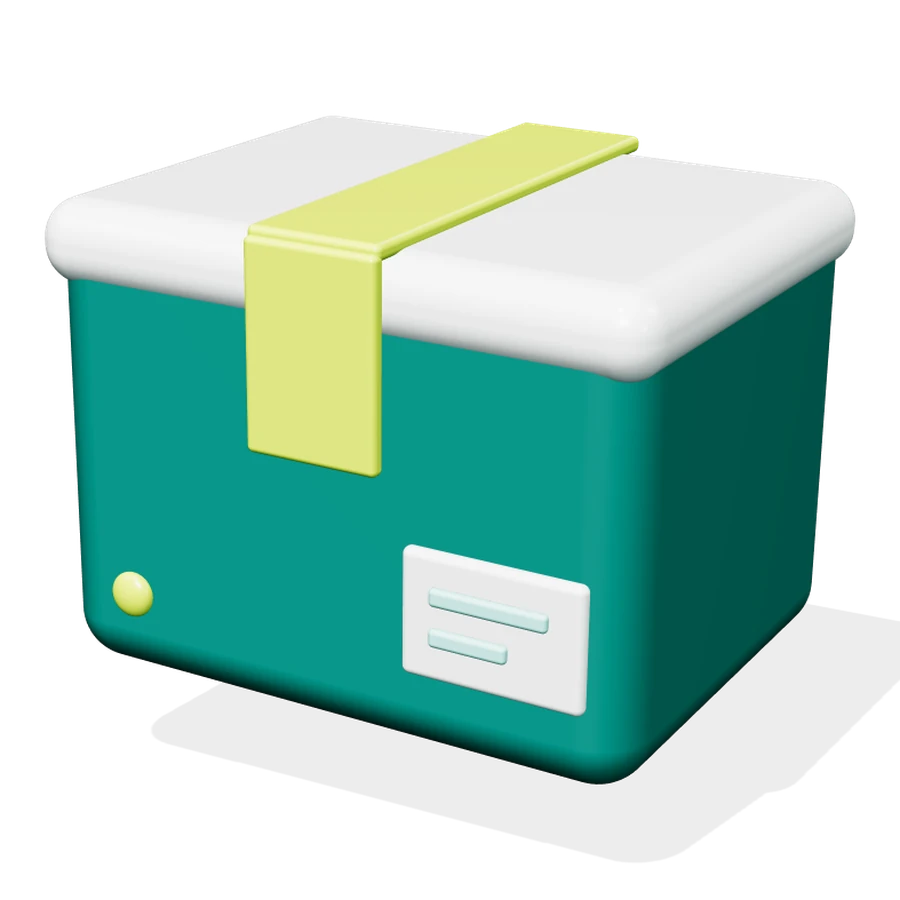
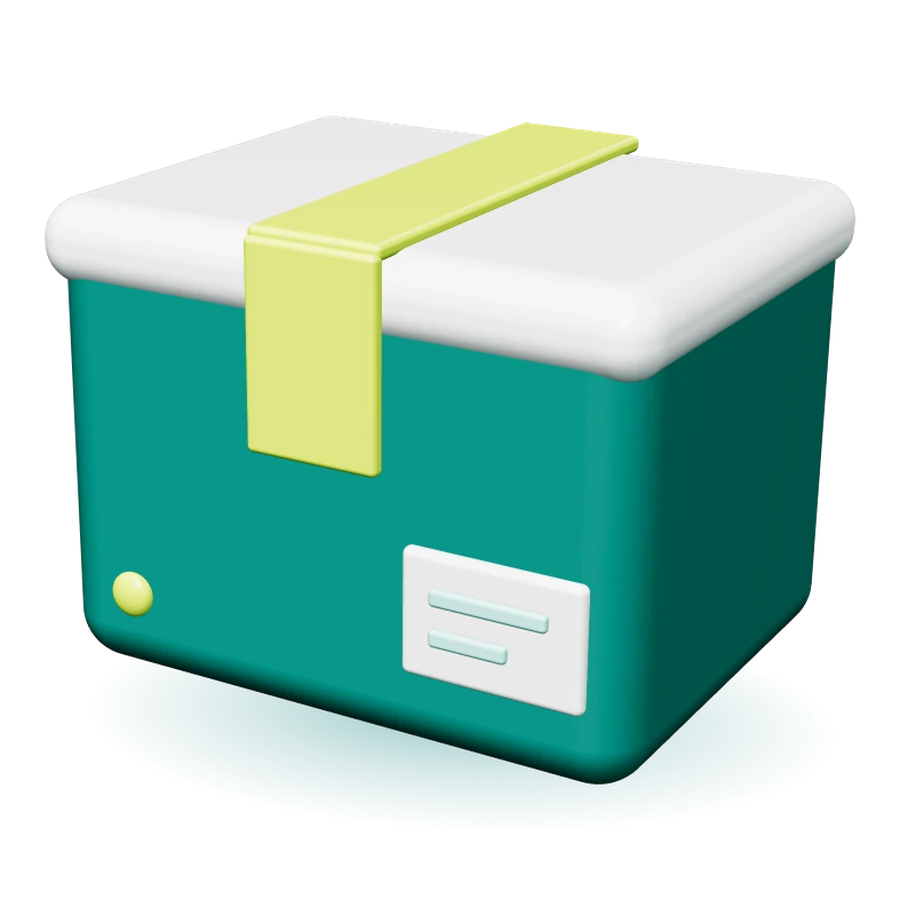
Version 12.4 (gebaut)
Claude-Session: https://claude.ai/code/session_018Wc4TpbFcR54odGWMa1RDx

Changed region(s): [[0.28, 0.7778, 0.5911, 0.8711], [0.2178, 0.7467, 0.2489, 0.7778]]

diff --git a/en/start.html b/en/start.html
@@ -25,7 +25,7 @@
 <link rel="icon" href="/favicon.ico" sizes="48x48">
 <link rel="manifest" href="/site.webmanifest">
 <link rel="preload" href="/fonts/instrument-sans-latin-wght-normal.woff2" as="font" type="font/woff2" crossorigin>
-<link rel="stylesheet" href="/css/site.css?v=4493fca2">
+<link rel="stylesheet" href="/css/site.css?v=ce3bd9f6">
 <script>document.documentElement.classList.add('js');setTimeout(function(){if(!window.__ldReady)document.documentElement.classList.remove('js')},2500);</script>
 <script type="application/ld+json">{"@context": "https://schema.org", "@type": "ProfessionalService", "name": "Lou Digital", "url": "https://lou-digital.de/en/", "email": "info@lou-digital.de", "founder": {"@type": "Person", "name": "Adrian Semlinger"}, "address": {"@type": "PostalAddress", "addressLocality": "Karlsruhe", "addressRegion": "Baden-Württemberg", "addressCountry": "DE"}, "areaServed": "DE", "telephone": "+49 156 30163539"}</script>
 </head>
@@ -52,13 +52,13 @@
       </div>
       <div class="blocks" aria-hidden="true">
         <div class="blk blk--petrol"><img class="fig" src="/img/fig-web.webp?v=7ac4f9f6" width="900" height="900" alt="" style="--f:94%" decoding="async"></div>
-        <div class="blk blk--ink"><img class="fig" src="/img/fig-mail.webp?v=47e3529c" width="900" height="900" alt="" style="--f:96%" decoding="async"></div>
-        <div class="blk blk--lime"><img class="fig" src="/img/fig-box.webp?v=d7bd06c3" width="900" height="900" alt="" style="--f:86%" decoding="async"></div>
+        <div class="blk blk--ink"><img class="fig" src="/img/fig-mail.webp?v=8fc74828" width="900" height="900" alt="" style="--f:96%" decoding="async"></div>
+        <div class="blk blk--lime"><img class="fig" src="/img/fig-box.webp?v=3f6ec955" width="900" height="900" alt="" style="--f:86%" decoding="async"></div>
         <div class="blk blk--mint dots"><img class="fig" src="/img/fig-clip.webp?v=ed7c0325" width="900" height="900" alt="" style="--f:98%" decoding="async"></div>
       </div>
     </div>
   </section>
-  <section class="sec sec--tight"><div class="wrap"><div class="teasers"><a class="teaser teaser--petrol" href="/en/websites" data-reveal style="--d:0.00s"><span><h3>Website in 7 days</h3><p>One-pager or up to 5 pages, from €390.</p><span class="go">View</span></span><img src="/img/fig-web.webp?v=7ac4f9f6" width="900" height="900" alt="" loading="lazy" decoding="async"></a><a class="teaser teaser--ink" href="/en/automation" data-reveal style="--d:0.06s"><span><h3>Inquiry automation</h3><p>Every inquiry instantly on your phone.</p><span class="go">View</span></span><img src="/img/fig-mail.webp?v=47e3529c" width="900" height="900" alt="" loading="lazy" decoding="async"></a><a class="teaser teaser--mint" href="/en/website-check" data-reveal style="--d:0.12s"><span><h3>Website check</h3><p>Five checkpoints, free of charge.</p><span class="go">View</span></span><img src="/img/fig-clip.webp?v=ed7c0325" width="900" height="900" alt="" loading="lazy" decoding="async"></a><a class="teaser teaser--lime" href="/en/custom" data-reveal style="--d:0.18s"><span><h3>Custom package</h3><p>Pick building blocks, see the price instantly.</p><span class="go">View</span></span><img src="/img/fig-box.webp?v=d7bd06c3" width="900" height="900" alt="" loading="lazy" decoding="async"></a></div></div></section>
+  <section class="sec sec--tight"><div class="wrap"><div class="teasers"><a class="teaser teaser--petrol" href="/en/websites" data-reveal style="--d:0.00s"><span><h3>Website in 7 days</h3><p>One-pager or up to 5 pages, from €390.</p><span class="go">View</span></span><img src="/img/fig-web.webp?v=7ac4f9f6" width="900" height="900" alt="" loading="lazy" decoding="async"></a><a class="teaser teaser--ink" href="/en/automation" data-reveal style="--d:0.06s"><span><h3>Inquiry automation</h3><p>Every inquiry instantly on your phone.</p><span class="go">View</span></span><img src="/img/fig-mail.webp?v=8fc74828" width="900" height="900" alt="" loading="lazy" decoding="async"></a><a class="teaser teaser--mint" href="/en/website-check" data-reveal style="--d:0.12s"><span><h3>Website check</h3><p>Five checkpoints, free of charge.</p><span class="go">View</span></span><img src="/img/fig-clip.webp?v=ed7c0325" width="900" height="900" alt="" loading="lazy" decoding="async"></a><a class="teaser teaser--lime" href="/en/custom" data-reveal style="--d:0.18s"><span><h3>Custom package</h3><p>Pick building blocks, see the price instantly.</p><span class="go">View</span></span><img src="/img/fig-box.webp?v=3f6ec955" width="900" height="900" alt="" loading="lazy" decoding="async"></a></div></div></section>
   <section class="sec" id="websites">
     <div class="wrap split">
       <div class="copy">
@@ -72,7 +72,7 @@
   </section>
   <section class="sec band" id="automatik">
     <div class="wrap split split--rev">
-      <div class="stage stage--petrol" data-reveal="scale"><img class="fig" src="/img/fig-mail.webp?v=47e3529c" width="900" height="900" alt="" style="--f:66%" decoding="async"></div>
+      <div class="stage stage--petrol" data-reveal="scale"><img class="fig" src="/img/fig-mail.webp?v=8fc74828" width="900" height="900" alt="" style="--f:66%" decoding="async"></div>
       <div class="copy">
         <h2 class="h2" data-reveal>Inquiry automation</h2>
         <p class="muted" data-reveal style="--d:.05s">Every inquiry from your form reaches you instantly. No digging through your inbox, no inquiry gets lost.</p>
@@ -133,7 +133,7 @@
     </div>
     <div class="trio" aria-hidden="true" data-reveal="scale">
       <div class="blk blk--petrol"><img class="fig" src="/img/fig-web.webp?v=7ac4f9f6" width="900" height="900" alt="" style="--f:84%" decoding="async"></div>
-      <div class="blk blk--ink"><img class="fig" src="/img/fig-mail.webp?v=47e3529c" width="900" height="900" alt="" style="--f:86%" decoding="async"></div>
+      <div class="blk blk--ink"><img class="fig" src="/img/fig-mail.webp?v=8fc74828" width="900" height="900" alt="" style="--f:86%" decoding="async"></div>
       <div class="blk blk--mint dots"><img class="fig" src="/img/fig-clip.webp?v=ed7c0325" width="900" height="900" alt="" style="--f:84%" decoding="async"></div>
     </div>
   </div>

diff --git a/start.html b/start.html
@@ -25,7 +25,7 @@
 <link rel="icon" href="/favicon.ico" sizes="48x48">
 <link rel="manifest" href="/site.webmanifest">
 <link rel="preload" href="/fonts/instrument-sans-latin-wght-normal.woff2" as="font" type="font/woff2" crossorigin>
-<link rel="stylesheet" href="/css/site.css?v=4493fca2">
+<link rel="stylesheet" href="/css/site.css?v=ce3bd9f6">
 <script>document.documentElement.classList.add('js');setTimeout(function(){if(!window.__ldReady)document.documentElement.classList.remove('js')},2500);</script>
 <script type="application/ld+json">{"@context": "https://schema.org", "@type": "ProfessionalService", "name": "Lou Digital", "url": "https://lou-digital.de/", "email": "info@lou-digital.de", "founder": {"@type": "Person", "name": "Adrian Semlinger"}, "address": {"@type": "PostalAddress", "addressLocality": "Karlsruhe", "addressRegion": "Baden-Württemberg", "addressCountry": "DE"}, "areaServed": "DE", "telephone": "+49 156 30163539"}</script>
 </head>
@@ -52,13 +52,13 @@
       </div>
       <div class="blocks" aria-hidden="true">
         <div class="blk blk--petrol"><img class="fig" src="/img/fig-web.webp?v=7ac4f9f6" width="900" height="900" alt="" style="--f:94%" decoding="async"></div>
-        <div class="blk blk--ink"><img class="fig" src="/img/fig-mail.webp?v=47e3529c" width="900" height="900" alt="" style="--f:96%" decoding="async"></div>
-        <div class="blk blk--lime"><img class="fig" src="/img/fig-box.webp?v=d7bd06c3" width="900" height="900" alt="" style="--f:86%" decoding="async"></div>
+        <div class="blk blk--ink"><img class="fig" src="/img/fig-mail.webp?v=8fc74828" width="900" height="900" alt="" style="--f:96%" decoding="async"></div>
+        <div class="blk blk--lime"><img class="fig" src="/img/fig-box.webp?v=3f6ec955" width="900" height="900" alt="" style="--f:86%" decoding="async"></div>
         <div class="blk blk--mint dots"><img class="fig" src="/img/fig-clip.webp?v=ed7c0325" width="900" height="900" alt="" style="--f:98%" decoding="async"></div>
       </div>
     </div>
   </section>
-  <section class="sec sec--tight"><div class="wrap"><div class="teasers"><a class="teaser teaser--petrol" href="/websites" data-reveal style="--d:0.00s"><span><h3>Website in 7 Tagen</h3><p>Onepager oder bis zu 5 Seiten, ab 390 €.</p><span class="go">Ansehen</span></span><img src="/img/fig-web.webp?v=7ac4f9f6" width="900" height="900" alt="" loading="lazy" decoding="async"></a><a class="teaser teaser--ink" href="/automatik" data-reveal style="--d:0.06s"><span><h3>Anfrage-Automatik</h3><p>Jede Anfrage sofort auf Ihrem Handy.</p><span class="go">Ansehen</span></span><img src="/img/fig-mail.webp?v=47e3529c" width="900" height="900" alt="" loading="lazy" decoding="async"></a><a class="teaser teaser--mint" href="/website-check" data-reveal style="--d:0.12s"><span><h3>Website-Check</h3><p>Fünf Prüfpunkte, kostenlos.</p><span class="go">Ansehen</span></span><img src="/img/fig-clip.webp?v=ed7c0325" width="900" height="900" alt="" loading="lazy" decoding="async"></a><a class="teaser teaser--lime" href="/individuell" data-reveal style="--d:0.18s"><span><h3>Individuelles Paket</h3><p>Bausteine wählen, Preis sofort sehen.</p><span class="go">Ansehen</span></span><img src="/img/fig-box.webp?v=d7bd06c3" width="900" height="900" alt="" loading="lazy" decoding="async"></a></div></div></section>
+  <section class="sec sec--tight"><div class="wrap"><div class="teasers"><a class="teaser teaser--petrol" href="/websites" data-reveal style="--d:0.00s"><span><h3>Website in 7 Tagen</h3><p>Onepager oder bis zu 5 Seiten, ab 390 €.</p><span class="go">Ansehen</span></span><img src="/img/fig-web.webp?v=7ac4f9f6" width="900" height="900" alt="" loading="lazy" decoding="async"></a><a class="teaser teaser--ink" href="/automatik" data-reveal style="--d:0.06s"><span><h3>Anfrage-Automatik</h3><p>Jede Anfrage sofort auf Ihrem Handy.</p><span class="go">Ansehen</span></span><img src="/img/fig-mail.webp?v=8fc74828" width="900" height="900" alt="" loading="lazy" decoding="async"></a><a class="teaser teaser--mint" href="/website-check" data-reveal style="--d:0.12s"><span><h3>Website-Check</h3><p>Fünf Prüfpunkte, kostenlos.</p><span class="go">Ansehen</span></span><img src="/img/fig-clip.webp?v=ed7c0325" width="900" height="900" alt="" loading="lazy" decoding="async"></a><a class="teaser teaser--lime" href="/individuell" data-reveal style="--d:0.18s"><span><h3>Individuelles Paket</h3><p>Bausteine wählen, Preis sofort sehen.</p><span class="go">Ansehen</span></span><img src="/img/fig-box.webp?v=3f6ec955" width="900" height="900" alt="" loading="lazy" decoding="async"></a></div></div></section>
   <section class="sec" id="websites">
     <div class="wrap split">
       <div class="copy">
@@ -72,7 +72,7 @@
   </section>
   <section class="sec band" id="automatik">
     <div class="wrap split split--rev">
-      <div class="stage stage--petrol" data-reveal="scale"><img class="fig" src="/img/fig-mail.webp?v=47e3529c" width="900" height="900" alt="" style="--f:66%" decoding="async"></div>
+      <div class="stage stage--petrol" data-reveal="scale"><img class="fig" src="/img/fig-mail.webp?v=8fc74828" width="900" height="900" alt="" style="--f:66%" decoding="async"></div>
       <div class="copy">
         <h2 class="h2" data-reveal>Anfrage-Automatik</h2>
         <p class="muted" data-reveal style="--d:.05s">Jede Anfrage aus Ihrem Formular kommt sofort bei Ihnen an. Kein Postfach durchsuchen, keine Anfrage geht verloren.</p>
@@ -133,7 +133,7 @@
     </div>
     <div class="trio" aria-hidden="true" data-reveal="scale">
       <div class="blk blk--petrol"><img class="fig" src="/img/fig-web.webp?v=7ac4f9f6" width="900" height="900" alt="" style="--f:84%" decoding="async"></div>
-      <div class="blk blk--ink"><img class="fig" src="/img/fig-mail.webp?v=47e3529c" width="900" height="900" alt="" style="--f:86%" decoding="async"></div>
+      <div class="blk blk--ink"><img class="fig" src="/img/fig-mail.webp?v=8fc74828" width="900" height="900" alt="" style="--f:86%" decoding="async"></div>
       <div class="blk blk--mint dots"><img class="fig" src="/img/fig-clip.webp?v=ed7c0325" width="900" height="900" alt="" style="--f:84%" decoding="async"></div>
     </div>
   </div>

diff --git a/fragen.html b/fragen.html
@@ -25,7 +25,7 @@
 <link rel="icon" href="/favicon.ico" sizes="48x48">
 <link rel="manifest" href="/site.webmanifest">
 <link rel="preload" href="/fonts/instrument-sans-latin-wght-normal.woff2" as="font" type="font/woff2" crossorigin>
-<link rel="stylesheet" href="/css/site.css?v=4493fca2">
+<link rel="stylesheet" href="/css/site.css?v=ce3bd9f6">
 <script>document.documentElement.classList.add('js');setTimeout(function(){if(!window.__ldReady)document.documentElement.classList.remove('js')},2500);</script>
 <script type="application/ld+json">{"@context": "https://schema.org", "@type": "FAQPage", "mainEntity": [{"@type": "Question", "name": "Was kostet eine Website bei Ihnen?", "acceptedAnswer": {"@type": "Answer", "text": "Die Website in 7 Tagen kostet 390 € als Pilotpreis für die ersten drei Kunden, danach 790 bis 990 €. Alle Preise ohne Umsatzsteuer, weil ich Kleinunternehmer nach § 19 UStG bin."}}, {"@type": "Question", "name": "Wem gehören Domain und Website?", "acceptedAnswer": {"@type": "Answer", "text": "Ihnen. Domain, Hosting und Zugänge laufen auf Ihren Namen. Wenn Sie später wechseln wollen, nehmen Sie alles mit."}}, {"@type": "Question", "name": "Was brauche ich, damit es losgehen kann?", "acceptedAnswer": {"@type": "Answer", "text": "Einen ausgefüllten Fragebogen mit Logo, Fotos, Leistungen, Öffnungszeiten und den Angaben für das Impressum. Ab dann laufen die 7 Tage. Zum Einstieg reicht der kostenlose Website-Check."}}, {"@type": "Question", "name": "Schreiben Sie auch Impressum und Datenschutzerklärung?", "acceptedAnswer": {"@type": "Answer", "text": "Ich lege die Struktur an und baue die Seiten ein. Die Texte kommen von Ihnen oder aus einem Generator. Verbindlich prüfen lassen Sie sie am besten von einer Anwältin oder einem Anwalt."}}, {"@type": "Question", "name": "Was ist in der Betreuung enthalten?", "acceptedAnswer": {"@type": "Answer", "text": "Überwachung, ob die Seite erreichbar ist, Backups, Updates und ein kurzer Monatsbericht. In M sind 30 Minuten Änderungen im Monat enthalten, in L eine Stunde."}}, {"@type": "Question", "name": "Wie schnell melden Sie sich nach einer Anfrage?", "acceptedAnswer": {"@type": "Answer", "text": "Sie bekommen sofort eine Bestätigung per E-Mail und von mir eine persönliche Antwort, in der Regel innerhalb von 24 Stunden an Werktagen. Melde ich mich später, erhalten Sie 10 % Rabatt auf Ihr erstes Paket."}}, {"@type": "Question", "name": "Arbeiten Sie nur in Karlsruhe?", "acceptedAnswer": {"@type": "Answer", "text": "Ich sitze in Karlsruhe und arbeite gerne persönlich vor Ort. Ich reise aber auch gern: Termine außerhalb von Karlsruhe sind kein Problem. Wir besprechen sie kurz vorab, und Anfahrt und Zeit plane ich im Preis ein. Alles andere läuft per E-Mail und Telefon, deutschlandweit."}}]}</script>
 </head>

diff --git a/en/faq.html b/en/faq.html
@@ -25,7 +25,7 @@
 <link rel="icon" href="/favicon.ico" sizes="48x48">
 <link rel="manifest" href="/site.webmanifest">
 <link rel="preload" href="/fonts/instrument-sans-latin-wght-normal.woff2" as="font" type="font/woff2" crossorigin>
-<link rel="stylesheet" href="/css/site.css?v=4493fca2">
+<link rel="stylesheet" href="/css/site.css?v=ce3bd9f6">
 <script>document.documentElement.classList.add('js');setTimeout(function(){if(!window.__ldReady)document.documentElement.classList.remove('js')},2500);</script>
 <script type="application/ld+json">{"@context": "https://schema.org", "@type": "FAQPage", "mainEntity": [{"@type": "Question", "name": "How much does a website cost?", "acceptedAnswer": {"@type": "Answer", "text": "The website in 7 days costs €390 as a pilot price for the first three clients, then €790 to €990. No VAT is charged because I’m a small business under § 19 UStG."}}, {"@type": "Question", "name": "Who owns the domain and website?", "acceptedAnswer": {"@type": "Answer", "text": "You do. Domain, hosting and accounts are in your name. If you want to switch later, you take everything with you."}}, {"@type": "Question", "name": "What do I need to get started?", "acceptedAnswer": {"@type": "Answer", "text": "A completed questionnaire with your logo, photos, services, opening hours and the details for the legal notice. The 7 days start from then. To begin, the free website check is enough."}}, {"@type": "Question", "name": "Do you write the legal notice and privacy policy?", "acceptedAnswer": {"@type": "Answer", "text": "I set up the structure and build the pages. The texts come from you or from a generator. For a binding review, it’s best to consult a lawyer."}}, {"@type": "Question", "name": "What’s included in maintenance?", "acceptedAnswer": {"@type": "Answer", "text": "Uptime monitoring, backups, updates and a short monthly report. M includes 30 minutes of changes per month, L includes one hour."}}, {"@type": "Question", "name": "How quickly will you get back to me?", "acceptedAnswer": {"@type": "Answer", "text": "You get a confirmation by email right away and a personal reply from me, usually within 24 hours on working days. If I take longer, you get 10% off your first package."}}, {"@type": "Question", "name": "Do you only work in Karlsruhe?", "acceptedAnswer": {"@type": "Answer", "text": "I’m based in Karlsruhe and happy to work with you in person. I also like to travel: appointments outside Karlsruhe are no problem. We’ll discuss it briefly up front, and I’ll include travel and time in the price. Everything else runs by email and phone across Germany."}}]}</script>
 </head>

diff --git a/automatik.html b/automatik.html
@@ -25,7 +25,7 @@
 <link rel="icon" href="/favicon.ico" sizes="48x48">
 <link rel="manifest" href="/site.webmanifest">
 <link rel="preload" href="/fonts/instrument-sans-latin-wght-normal.woff2" as="font" type="font/woff2" crossorigin>
-<link rel="stylesheet" href="/css/site.css?v=4493fca2">
+<link rel="stylesheet" href="/css/site.css?v=ce3bd9f6">
 <script>document.documentElement.classList.add('js');setTimeout(function(){if(!window.__ldReady)document.documentElement.classList.remove('js')},2500);</script>
 </head>
 <body>
@@ -46,7 +46,7 @@
   <p class="lead" data-reveal style="--d:.08s">Ihr Formular, Ihre Tabelle und Ihr Handy arbeiten zusammen. Keine Anfrage geht mehr verloren.</p>
 </div></section><section class="sec band" id="automatik">
     <div class="wrap split split--rev">
-      <div class="stage stage--petrol" data-reveal="scale"><img class="fig" src="/img/fig-mail.webp?v=47e3529c" width="900" height="900" alt="" style="--f:66%" decoding="async"></div>
+      <div class="stage stage--petrol" data-reveal="scale"><img class="fig" src="/img/fig-mail.webp?v=8fc74828" width="900" height="900" alt="" style="--f:66%" decoding="async"></div>
       <div class="copy">
         
         <p class="muted" data-reveal style="--d:.05s">Jede Anfrage aus Ihrem Formular kommt sofort bei Ihnen an. Kein Postfach durchsuchen, keine Anfrage geht verloren.</p>
@@ -64,7 +64,7 @@
     </div>
     <div class="trio" aria-hidden="true" data-reveal="scale">
       <div class="blk blk--petrol"><img class="fig" src="/img/fig-web.webp?v=7ac4f9f6" width="900" height="900" alt="" style="--f:84%" decoding="async"></div>
-      <div class="blk blk--ink"><img class="fig" src="/img/fig-mail.webp?v=47e3529c" width="900" height="900" alt="" style="--f:86%" decoding="async"></div>
+      <div class="blk blk--ink"><img class="fig" src="/img/fig-mail.webp?v=8fc74828" width="900" height="900" alt="" style="--f:86%" decoding="async"></div>
       <div class="blk blk--mint dots"><img class="fig" src="/img/fig-clip.webp?v=ed7c0325" width="900" height="900" alt="" style="--f:84%" decoding="async"></div>
     </div>
   </div>

diff --git a/en/automation.html b/en/automation.html
@@ -25,7 +25,7 @@
 <link rel="icon" href="/favicon.ico" sizes="48x48">
 <link rel="manifest" href="/site.webmanifest">
 <link rel="preload" href="/fonts/instrument-sans-latin-wght-normal.woff2" as="font" type="font/woff2" crossorigin>
-<link rel="stylesheet" href="/css/site.css?v=4493fca2">
+<link rel="stylesheet" href="/css/site.css?v=ce3bd9f6">
 <script>document.documentElement.classList.add('js');setTimeout(function(){if(!window.__ldReady)document.documentElement.classList.remove('js')},2500);</script>
 </head>
 <body>
@@ -46,7 +46,7 @@
   <p class="lead" data-reveal style="--d:.08s">Your form, your spreadsheet and your phone work together. No inquiry gets lost again.</p>
 </div></section><section class="sec band" id="automatik">
     <div class="wrap split split--rev">
-      <div class="stage stage--petrol" data-reveal="scale"><img class="fig" src="/img/fig-mail.webp?v=47e3529c" width="900" height="900" alt="" style="--f:66%" decoding="async"></div>
+      <div class="stage stage--petrol" data-reveal="scale"><img class="fig" src="/img/fig-mail.webp?v=8fc74828" width="900" height="900" alt="" style="--f:66%" decoding="async"></div>
       <div class="copy">
         
         <p class="muted" data-reveal style="--d:.05s">Every inquiry from your form reaches you instantly. No digging through your inbox, no inquiry gets lost.</p>
@@ -64,7 +64,7 @@
     </div>
     <div class="trio" aria-hidden="true" data-reveal="scale">
       <div class="blk blk--petrol"><img class="fig" src="/img/fig-web.webp?v=7ac4f9f6" width="900" height="900" alt="" style="--f:84%" decoding="async"></div>
-      <div class="blk blk--ink"><img class="fig" src="/img/fig-mail.webp?v=47e3529c" width="900" height="900" alt="" style="--f:86%" decoding="async"></div>
+      <div class="blk blk--ink"><img class="fig" src="/img/fig-mail.webp?v=8fc74828" width="900" height="900" alt="" style="--f:86%" decoding="async"></div>
       <div class="blk blk--mint dots"><img class="fig" src="/img/fig-clip.webp?v=ed7c0325" width="900" height="900" alt="" style="--f:84%" decoding="async"></div>
     </div>
   </div>

diff --git a/en/contact.html b/en/contact.html
@@ -25,7 +25,7 @@
 <link rel="icon" href="/favicon.ico" sizes="48x48">
 <link rel="manifest" href="/site.webmanifest">
 <link rel="preload" href="/fonts/instrument-sans-latin-wght-normal.woff2" as="font" type="font/woff2" crossorigin>
-<link rel="stylesheet" href="/css/site.css?v=4493fca2">
+<link rel="stylesheet" href="/css/site.css?v=ce3bd9f6">
 <script>document.documentElement.classList.add('js');setTimeout(function(){if(!window.__ldReady)document.documentElement.classList.remove('js')},2500);</script>
 </head>
 <body>
@@ -58,8 +58,8 @@
       </div>
       <div class="trio" aria-hidden="true" data-reveal="scale">
         <div class="blk blk--petrol"><img class="fig" src="/img/fig-web.webp?v=7ac4f9f6" width="900" height="900" alt="" style="--f:84%" decoding="async"></div>
-        <div class="blk blk--ink"><img class="fig" src="/img/fig-mail.webp?v=47e3529c" width="900" height="900" alt="" style="--f:86%" decoding="async"></div>
-        <div class="blk blk--lime"><img class="fig" src="/img/fig-box.webp?v=d7bd06c3" width="900" height="900" alt="" style="--f:90%" decoding="async"></div>
+        <div class="blk blk--ink"><img class="fig" src="/img/fig-mail.webp?v=8fc74828" width="900" height="900" alt="" style="--f:86%" decoding="async"></div>
+        <div class="blk blk--lime"><img class="fig" src="/img/fig-box.webp?v=3f6ec955" width="900" height="900" alt="" style="--f:90%" decoding="async"></div>
       </div>
     </div>
     <form class="form" id="contact" action="/api/anfrage.php" method="post" novalidate data-reveal="scale">

diff --git a/kontakt.html b/kontakt.html
@@ -25,7 +25,7 @@
 <link rel="icon" href="/favicon.ico" sizes="48x48">
 <link rel="manifest" href="/site.webmanifest">
 <link rel="preload" href="/fonts/instrument-sans-latin-wght-normal.woff2" as="font" type="font/woff2" crossorigin>
-<link rel="stylesheet" href="/css/site.css?v=4493fca2">
+<link rel="stylesheet" href="/css/site.css?v=ce3bd9f6">
 <script>document.documentElement.classList.add('js');setTimeout(function(){if(!window.__ldReady)document.documentElement.classList.remove('js')},2500);</script>
 </head>
 <body>
@@ -58,8 +58,8 @@
       </div>
       <div class="trio" aria-hidden="true" data-reveal="scale">
         <div class="blk blk--petrol"><img class="fig" src="/img/fig-web.webp?v=7ac4f9f6" width="900" height="900" alt="" style="--f:84%" decoding="async"></div>
-        <div class="blk blk--ink"><img class="fig" src="/img/fig-mail.webp?v=47e3529c" width="900" height="900" alt="" style="--f:86%" decoding="async"></div>
-        <div class="blk blk--lime"><img class="fig" src="/img/fig-box.webp?v=d7bd06c3" width="900" height="900" alt="" style="--f:90%" decoding="async"></div>
+        <div class="blk blk--ink"><img class="fig" src="/img/fig-mail.webp?v=8fc74828" width="900" height="900" alt="" style="--f:86%" decoding="async"></div>
+        <div class="blk blk--lime"><img class="fig" src="/img/fig-box.webp?v=3f6ec955" width="900" height="900" alt="" style="--f:90%" decoding="async"></div>
       </div>
     </div>
     <form class="form" id="contact" action="/api/anfrage.php" method="post" novalidate data-reveal="scale">

diff --git a/en/about.html b/en/about.html
@@ -25,7 +25,7 @@
 <link rel="icon" href="/favicon.ico" sizes="48x48">
 <link rel="manifest" href="/site.webmanifest">
 <link rel="preload" href="/fonts/instrument-sans-latin-wght-normal.woff2" as="font" type="font/woff2" crossorigin>
-<link rel="stylesheet" href="/css/site.css?v=4493fca2">
+<link rel="stylesheet" href="/css/site.css?v=ce3bd9f6">
 <script>document.documentElement.classList.add('js');setTimeout(function(){if(!window.__ldReady)document.documentElement.classList.remove('js')},2500);</script>
 </head>
 <body>
@@ -62,7 +62,7 @@
     </div>
     <div class="trio" aria-hidden="true" data-reveal="scale">
       <div class="blk blk--petrol"><img class="fig" src="/img/fig-web.webp?v=7ac4f9f6" width="900" height="900" alt="" style="--f:84%" decoding="async"></div>
-      <div class="blk blk--ink"><img class="fig" src="/img/fig-mail.webp?v=47e3529c" width="900" height="900" alt="" style="--f:86%" decoding="async"></div>
+      <div class="blk blk--ink"><img class="fig" src="/img/fig-mail.webp?v=8fc74828" width="900" height="900" alt="" style="--f:86%" decoding="async"></div>
       <div class="blk blk--mint dots"><img class="fig" src="/img/fig-clip.webp?v=ed7c0325" width="900" height="900" alt="" style="--f:84%" decoding="async"></div>
     </div>
   </div>

diff --git a/en/packages.html b/en/packages.html
@@ -25,7 +25,7 @@
 <link rel="icon" href="/favicon.ico" sizes="48x48">
 <link rel="manifest" href="/site.webmanifest">
 <link rel="preload" href="/fonts/instrument-sans-latin-wght-normal.woff2" as="font" type="font/woff2" crossorigin>
-<link rel="stylesheet" href="/css/site.css?v=4493fca2">
+<link rel="stylesheet" href="/css/site.css?v=ce3bd9f6">
 <script>document.documentElement.classList.add('js');setTimeout(function(){if(!window.__ldReady)document.documentElement.classList.remove('js')},2500);</script>
 </head>
 <body>
@@ -62,7 +62,7 @@
     </div>
     <div class="trio" aria-hidden="true" data-reveal="scale">
       <div class="blk blk--petrol"><img class="fig" src="/img/fig-web.webp?v=7ac4f9f6" width="900" height="900" alt="" style="--f:84%" decoding="async"></div>
-      <div class="blk blk--ink"><img class="fig" src="/img/fig-mail.webp?v=47e3529c" width="900" height="900" alt="" style="--f:86%" decoding="async"></div>
+      <div class="blk blk--ink"><img class="fig" src="/img/fig-mail.webp?v=8fc74828" width="900" height="900" alt="" style="--f:86%" decoding="async"></div>
       <div class="blk blk--mint dots"><img class="fig" src="/img/fig-clip.webp?v=ed7c0325" width="900" height="900" alt="" style="--f:84%" decoding="async"></div>
     </div>
   </div>

diff --git a/en/website-check.html b/en/website-check.html
@@ -25,7 +25,7 @@
 <link rel="icon" href="/favicon.ico" sizes="48x48">
 <link rel="manifest" href="/site.webmanifest">
 <link rel="preload" href="/fonts/instrument-sans-latin-wght-normal.woff2" as="font" type="font/woff2" crossorigin>
-<link rel="stylesheet" href="/css/site.css?v=4493fca2">
+<link rel="stylesheet" href="/css/site.css?v=ce3bd9f6">
 <script>document.documentElement.classList.add('js');setTimeout(function(){if(!window.__ldReady)document.documentElement.classList.remove('js')},2500);</script>
 </head>
 <body>
@@ -83,7 +83,7 @@
     </div>
     <div class="trio" aria-hidden="true" data-reveal="scale">
       <div class="blk blk--petrol"><img class="fig" src="/img/fig-web.webp?v=7ac4f9f6" width="900" height="900" alt="" style="--f:84%" decoding="async"></div>
-      <div class="blk blk--ink"><img class="fig" src="/img/fig-mail.webp?v=47e3529c" width="900" height="900" alt="" style="--f:86%" decoding="async"></div>
+      <div class="blk blk--ink"><img class="fig" src="/img/fig-mail.webp?v=8fc74828" width="900" height="900" alt="" style="--f:86%" decoding="async"></div>
       <div class="blk blk--mint dots"><img class="fig" src="/img/fig-clip.webp?v=ed7c0325" width="900" height="900" alt="" style="--f:84%" decoding="async"></div>
     </div>
   </div>

diff --git a/en/websites.html b/en/websites.html
@@ -25,7 +25,7 @@
 <link rel="icon" href="/favicon.ico" sizes="48x48">
 <link rel="manifest" href="/site.webmanifest">
 <link rel="preload" href="/fonts/instrument-sans-latin-wght-normal.woff2" as="font" type="font/woff2" crossorigin>
-<link rel="stylesheet" href="/css/site.css?v=4493fca2">
+<link rel="stylesheet" href="/css/site.css?v=ce3bd9f6">
 <script>document.documentElement.classList.add('js');setTimeout(function(){if(!window.__ldReady)document.documentElement.classList.remove('js')},2500);</script>
 </head>
 <body>
@@ -62,7 +62,7 @@
     </div>
     <div class="trio" aria-hidden="true" data-reveal="scale">
       <div class="blk blk--petrol"><img class="fig" src="/img/fig-web.webp?v=7ac4f9f6" width="900" height="900" alt="" style="--f:84%" decoding="async"></div>
-      <div class="blk blk--ink"><img class="fig" src="/img/fig-mail.webp?v=47e3529c" width="900" height="900" alt="" style="--f:86%" decoding="async"></div>
+      <div class="blk blk--ink"><img class="fig" src="/img/fig-mail.webp?v=8fc74828" width="900" height="900" alt="" style="--f:86%" decoding="async"></div>
       <div class="blk blk--mint dots"><img class="fig" src="/img/fig-clip.webp?v=ed7c0325" width="900" height="900" alt="" style="--f:84%" decoding="async"></div>
     </div>
   </div>
